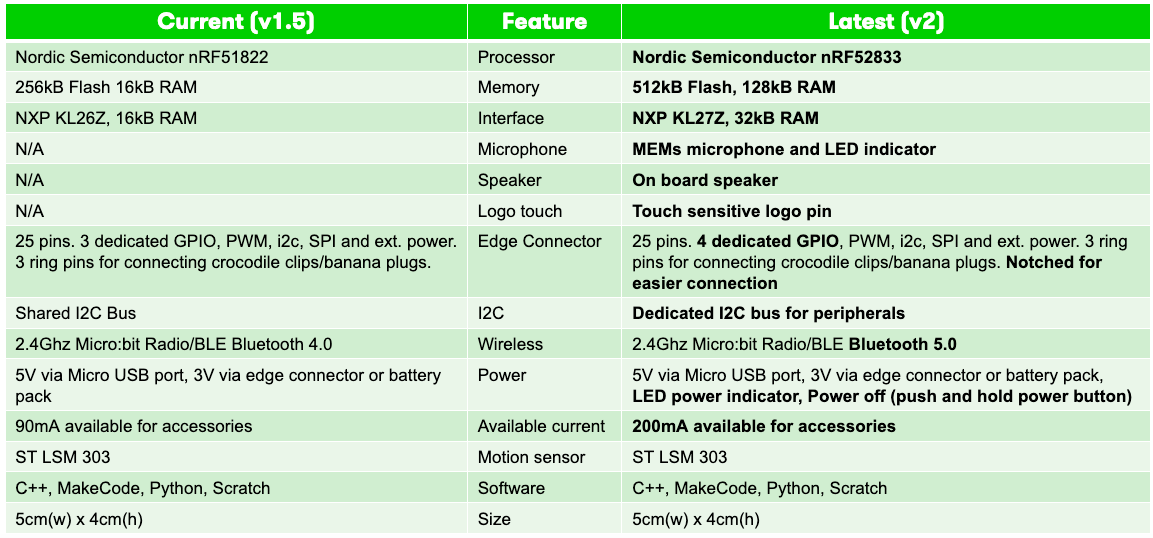
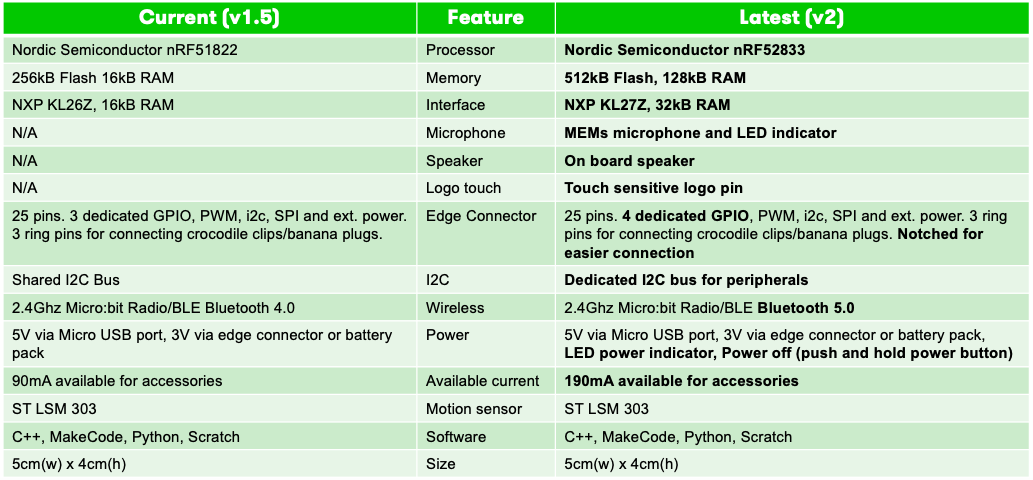
Updates 28 10 20 (#97)
* Squashed 'docs/' changes from ae437c75..21c6a16f

21c6a16f update table 200mA > 190mA
9cffab03 Update info on MakeCode blocks
cc01c0f9 Latest updates for MakeCode and DAPLink (#193)
18ff8f7f Update hex-format.md: add missing space (#190)
af73c3ce Update apps-and-examples.md: add missing space (#189)
1f7d600d Spelling mistake (#186)
b24c88f7 Re-phrasing bluetooth section (#181)
4007b76a Rephrase "lozenge" to "rounded rectangular" (#180)
f8ca9aaa Merge pull request #179 from Gadgetoid/spelling
afe3441b Spelling and consistency tweaks
7b0e132e Merge pull request #175 from Gadgetoid/doc-consistency
ac8b131f Consistent use of whitespace and Markdown formatting
670d1f1f Remove hard linebreaks and trailing whitespace (#174)
6be457a0 update iOS beta instructions (#173)
1b2f2ec7 Update DAPLink error message (#171)
955cf1a8 spelling

git-subtree-dir: docs
git-subtree-split: 21c6a16f0cf7a56ed218456af04b691b02d3046e

* Squashed 'docs/' changes from 21c6a16f..ce75bb47

ce75bb47 remove duplicate MakeCode

git-subtree-dir: docs
git-subtree-split: ce75bb477b3eeef03f57083cd3d1069d5b04606f

* Squashed 'docs/' changes from ce75bb47..3d3c6ed7

3d3c6ed7 fix links
82601311 fix links
504c6df9 remove link to uhex spec as it 404s
bee772fb remove link to python mailing list

git-subtree-dir: docs
git-subtree-split: 3d3c6ed7c8c4643739a1114449094c1eccbbe7d6

diff --git a/latest-revision/latest-revision-accessories.md b/latest-revision/latest-revision-accessories.md
@@ -104,6 +104,8 @@ If the extension is incompatible, the MakeCode editor will fail to compile the p
 
 We are working behind the scenes on patching all MakeCode extensions that are currently incompatible. If we have not made contact or you wish to discuss any issues, please get in touch.
 
+A current list of extensions with issues can be found in https://github.com/microsoft/pxt-microbit/issues/3506
+
 ### Python modules
 
 The additional memory available to the latest revision means that you have more space to create python modules to work with your accessories and the micro:bit.
@@ -117,7 +119,7 @@ The latest board revision introduces a superset of the Intel-Hex format that ena
 A **Universal Hex** hex file will work on a v1 or V2 board.
 A clear indication that you are working with this format is that a compiled .hex file will be ~1.8Mb as opposed to ~700Kb in size.
 
-A [Universal Hex JavaScript Library](https://github.com/microbit-foundation/microbit-universal-hex) has been written to implement the format and associated detailed [specification of the Universal Hex format](https://github.com/microbit-foundation/universal-hex/).  Please [get in contact](mailto:support@microbit.org?subject=Request%20for%20access%20to%20Universal%20hex&20spec&body=Name%3A%0D%0A%0D%0AGitHub%20ID%3A) if you require access to the specification.
+A [Universal Hex JavaScript Library](https://github.com/microbit-foundation/microbit-universal-hex) has been written to implement the format and associated detailed specification of the Universal Hex format. Please [get in contact](mailto:support@microbit.org?subject=Request%20for%20access%20to%20Universal%20hex&20spec&body=Name%3A%0D%0A%0D%0AGitHub%20ID%3A) if you require access to the specification.
 
 ### Hex format compatibility
 

diff --git a/hardware/1-5-revision.md b/hardware/1-5-revision.md
@@ -63,7 +63,7 @@ This allows the micro:bit to communicate with a wide range of Bluetooth devices,
 | Channels      | 50 2MHz channels, only 40 used (0 to 39), 3 advertising channels (37,38,39)
 | Sensitivity   | -93dBm in Bluetooth low energy mode
 | Tx Power      | -20dBM to 4dBm in 4 dB steps
-| Role          | [GAP Peripheral](http://bluetooth-mdw.blogspot.co.uk/2016/07/microbit-and-bluetooth-roles.html)
+| Role          | [GAP Peripheral](http://bluetooth-developer.blogspot.co.uk/2016/07/microbit-and-bluetooth-roles.html)
 | Congestion avoidance | Adaptive Frequency Hopping
 | Profiles      | [BBC micro:bit profile](https://lancaster-university.github.io/microbit-docs/ble/profile/)
 | More Info     | [Bluetooth](../../bluetooth)
@@ -222,7 +222,7 @@ The interface processor can be used with special host tools to debug code that i
 | ---           | ---
 | Protocol      | CMSIS-DAP
 | Options       | JLink/OB (via different firmware)
-| More Info     | [Mbed debugging micro:bit](https://os.mbed.com/docs/mbed-os/v5.11/tutorials/debug-microbit.html)
+| More Info     | [Mbed debugging micro:bit](https://docs.mbed.com/docs/mbed-os-handbook/en/latest/debugging/debugging_microbit/)
 
 ### Mechanical
 
@@ -237,7 +237,7 @@ We have some [nice 2D and 3D CAD drawings and models of the micro:bit](https://g
 
 - [BBC Technical Specifications](http://www.bbc.co.uk/mediacentre/mediapacks/microbit/specs)
 
-- [I2C specification](http://cache.nxp.com/documents/user_manual/UM10204.pdf)
+- [I2C specification](https://www.nxp.com/docs/en/user-guide/UM10204.pdf)
 
 - [SPI 'specification'](https://en.wikipedia.org/wiki/Serial_Peripheral_Interface_Bus)
 

diff --git a/software/runtime.md b/software/runtime.md
@@ -107,4 +107,4 @@ Crucially, this includes Nordic's [Soft Device 110](https://www.nordicsemi.com/S
 
 The SoftDevice runs on the same MCU as the user's code, and when using the Mbed BLE APIs (that the micro:bit runtime also uses), calls are made into SoftDevice. SoftDevice also occupies the highest priority interrupts, so that user code can be pre-empted by SoftDevice when this is required for the radio to function properly.
 
-<span class="v1">v1</span> only. Micro:bit programs use SoftDevice S110 by default, which only allows the device to be a [GAP Peripheral](http://bluetooth-mdw.blogspot.co.uk/2016/07/microbit-and-bluetooth-roles.html). It is possible to use [Soft Device S130](https://www.nordicsemi.com/Software-and-tools/Software/S130) with the micro:bit by compiling offline with Mbed, though that is beyond the scope of this documentation.
+<span class="v1">v1</span> only. Micro:bit programs use SoftDevice S110 by default, which only allows the device to be a [GAP Peripheral](http://bluetooth-developer.blogspot.co.uk/2016/07/microbit-and-bluetooth-roles.html). It is possible to use [Soft Device S130](https://www.nordicsemi.com/Software-and-tools/Software/S130) with the micro:bit by compiling offline with Mbed, though that is beyond the scope of this documentation.

diff --git a/latest-revision/latest-revision-main.md b/latest-revision/latest-revision-main.md
@@ -136,16 +136,10 @@ To access the features of the latest revision only (eg. to output sound only on 
 
 Features that are common to all board variants will work in the same way they always have. For example, you will be able to use the same blocks in MakeCode to use the acceleromater on any board revision.
 
-### MakeCode
-
 ### Makecode
-You can use the latest board revision in the beta editor [https://makecode.microbit.org/beta](https://makecode.microbit.org/beta) alongside the current revision. This editor does not yet have support for V2 features.
+You can use the latest board revision in the beta editor [https://makecode.microbit.org/beta](https://makecode.microbit.org/beta) alongside the current revision. 
 
-#### Using the new features in MakeCode
-
-An alpha version of the MakeCode editor that includes the latest V2 feature blocks is available at [https://makecode.microbit.org/v3.1](https://makecode.microbit.org/v3.1)
-
-#### V2 MakeCode APIs
+#### Using the new features in MakeCode beta
 
 The Microphone and Logo touch features can be found in the Input menu
 

diff --git a/community/slack.md b/community/slack.md
@@ -23,7 +23,7 @@ In addition to our regular [Micro:bit Educational Foundation newsletter](https:/
 
 ## Join us on the microbit-community slack channel!
 
-[Slack](https://slack) is a messaging service that allows teams and communities to connect online. It's a brilliant tool for live collaboration and the place to be for current micro:bit chatter!
+[Slack](https://slack.com) is a messaging service that allows teams and communities to connect online. It's a brilliant tool for live collaboration and the place to be for current micro:bit chatter!
 
 Please note that Slack complements, but does not replace [micro:bit help & support](http://support.microbit.org, where you can search for help and ask the team questions.
 

diff --git a/software/micropython.md b/software/micropython.md
@@ -128,8 +128,6 @@ Tutorials and API documentation for developers can be [found here](https://micro
 
 - [Log a new issue](https://github.com/bbcmicrobit/micropython/issues/new)
 
-- [Ask a question on the mailing list](https://mail.python.org/mailman/listinfo/microbit) (you must be a member of the mailing list before you can post to it).
-
 ### Source Code
 
 - [MicroPython on the micro:bit source code](https://github.com/bbcmicrobit/micropython)
